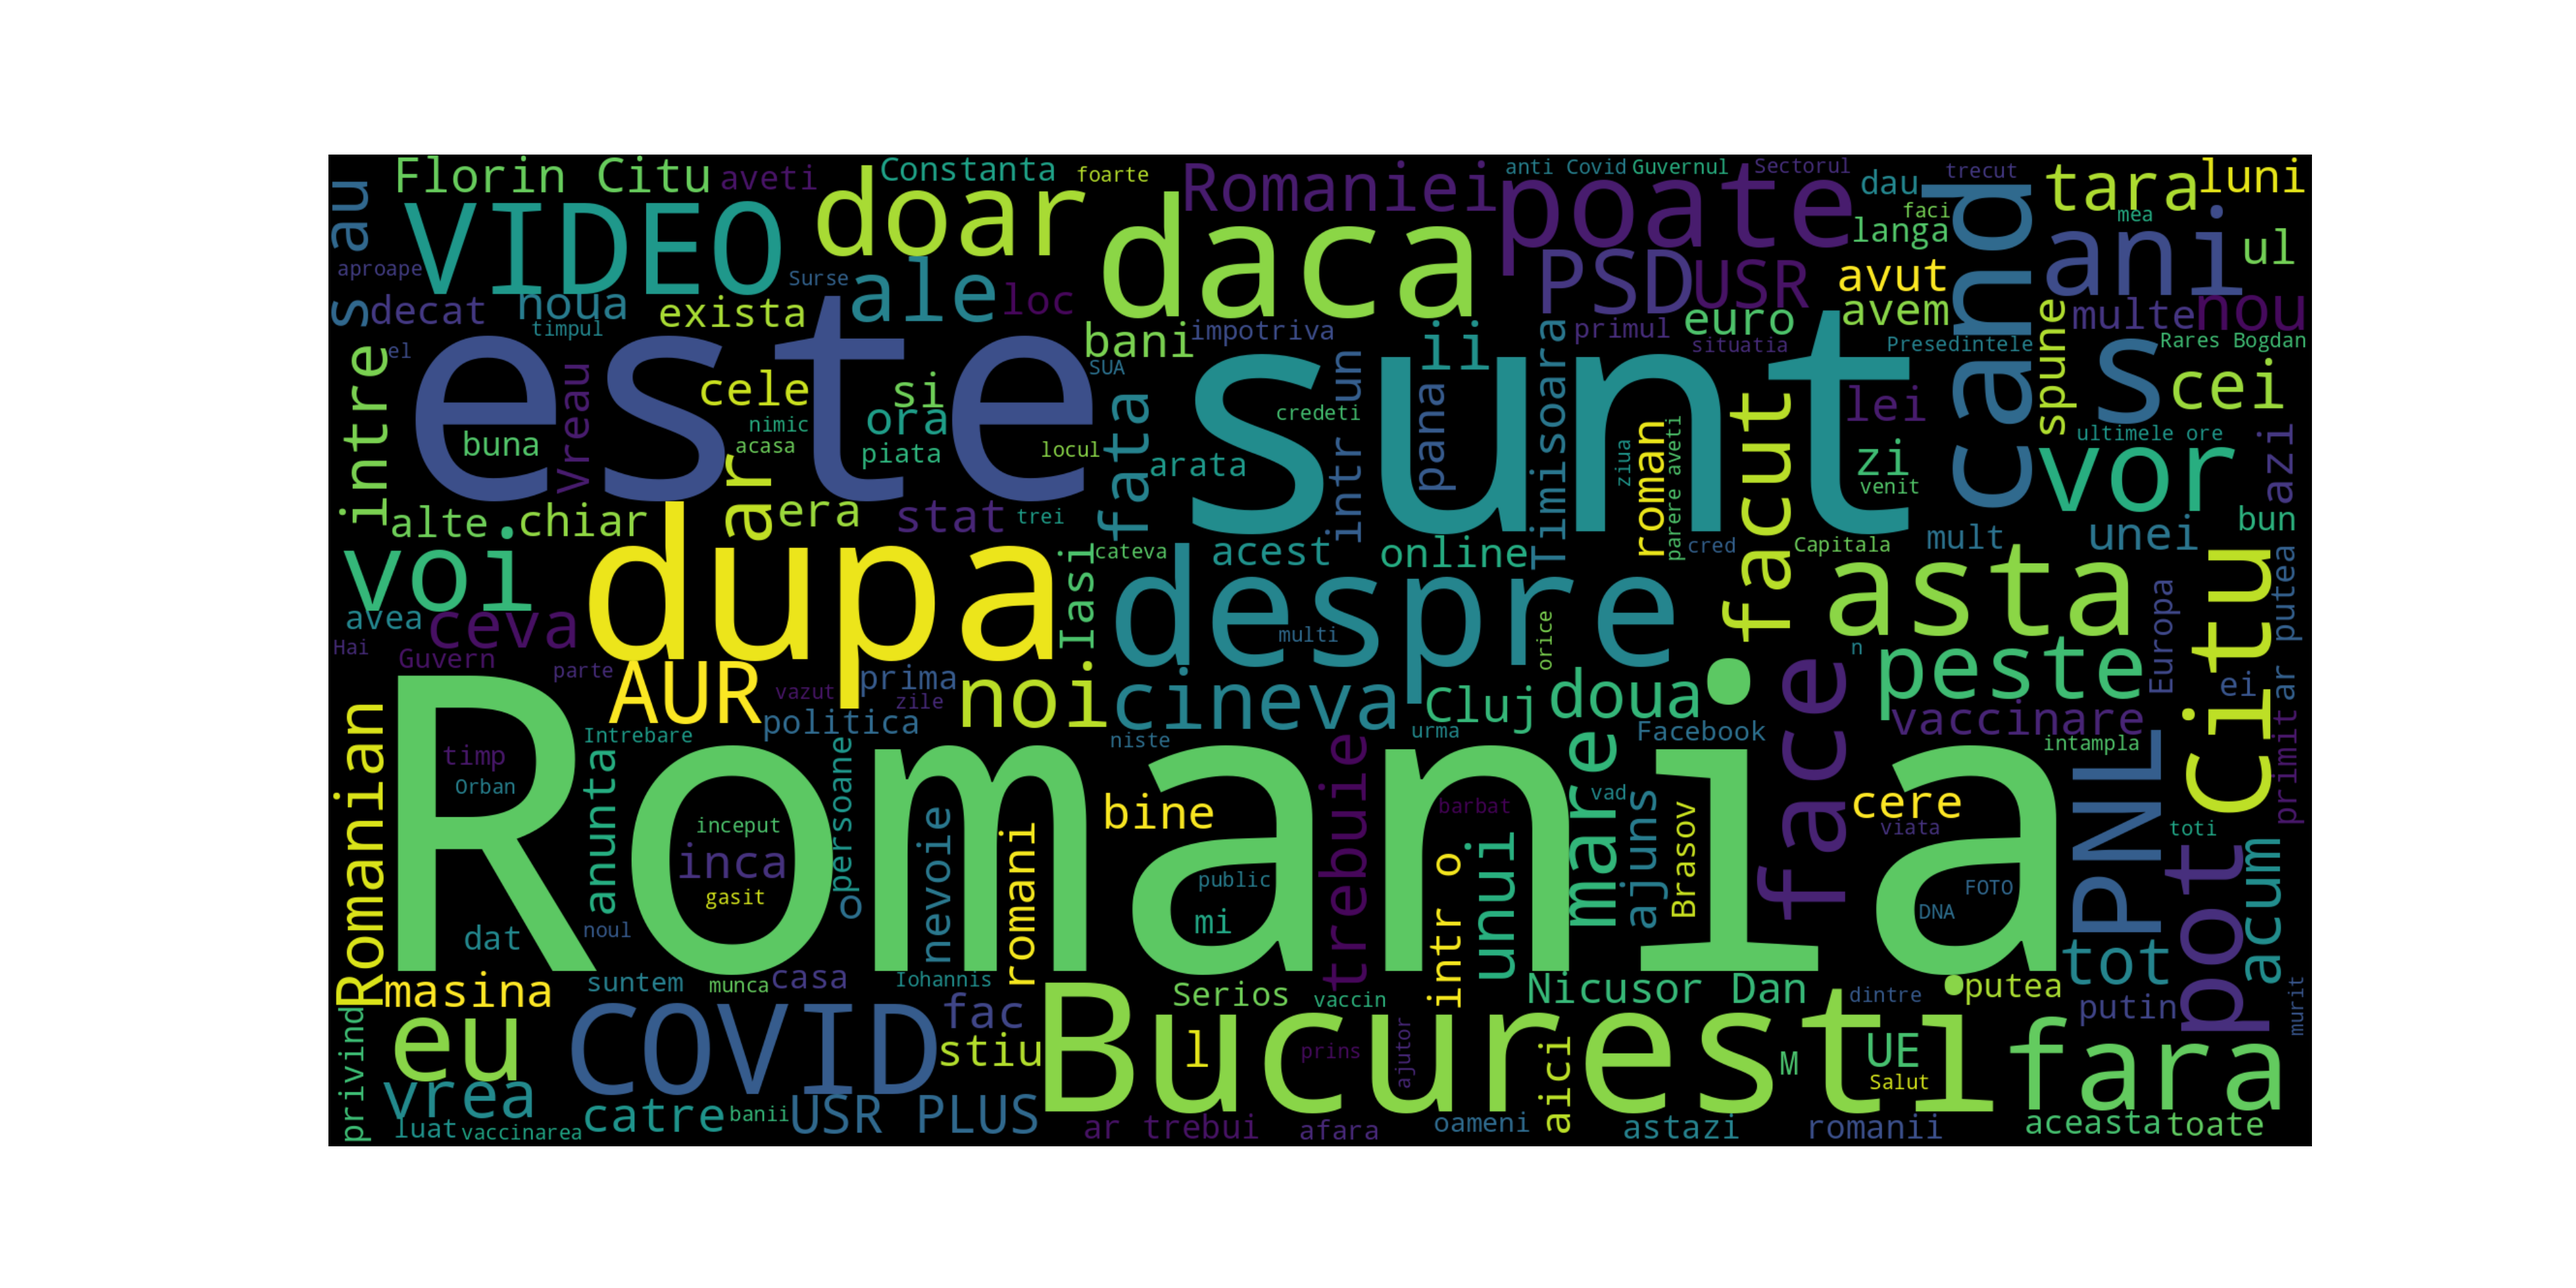
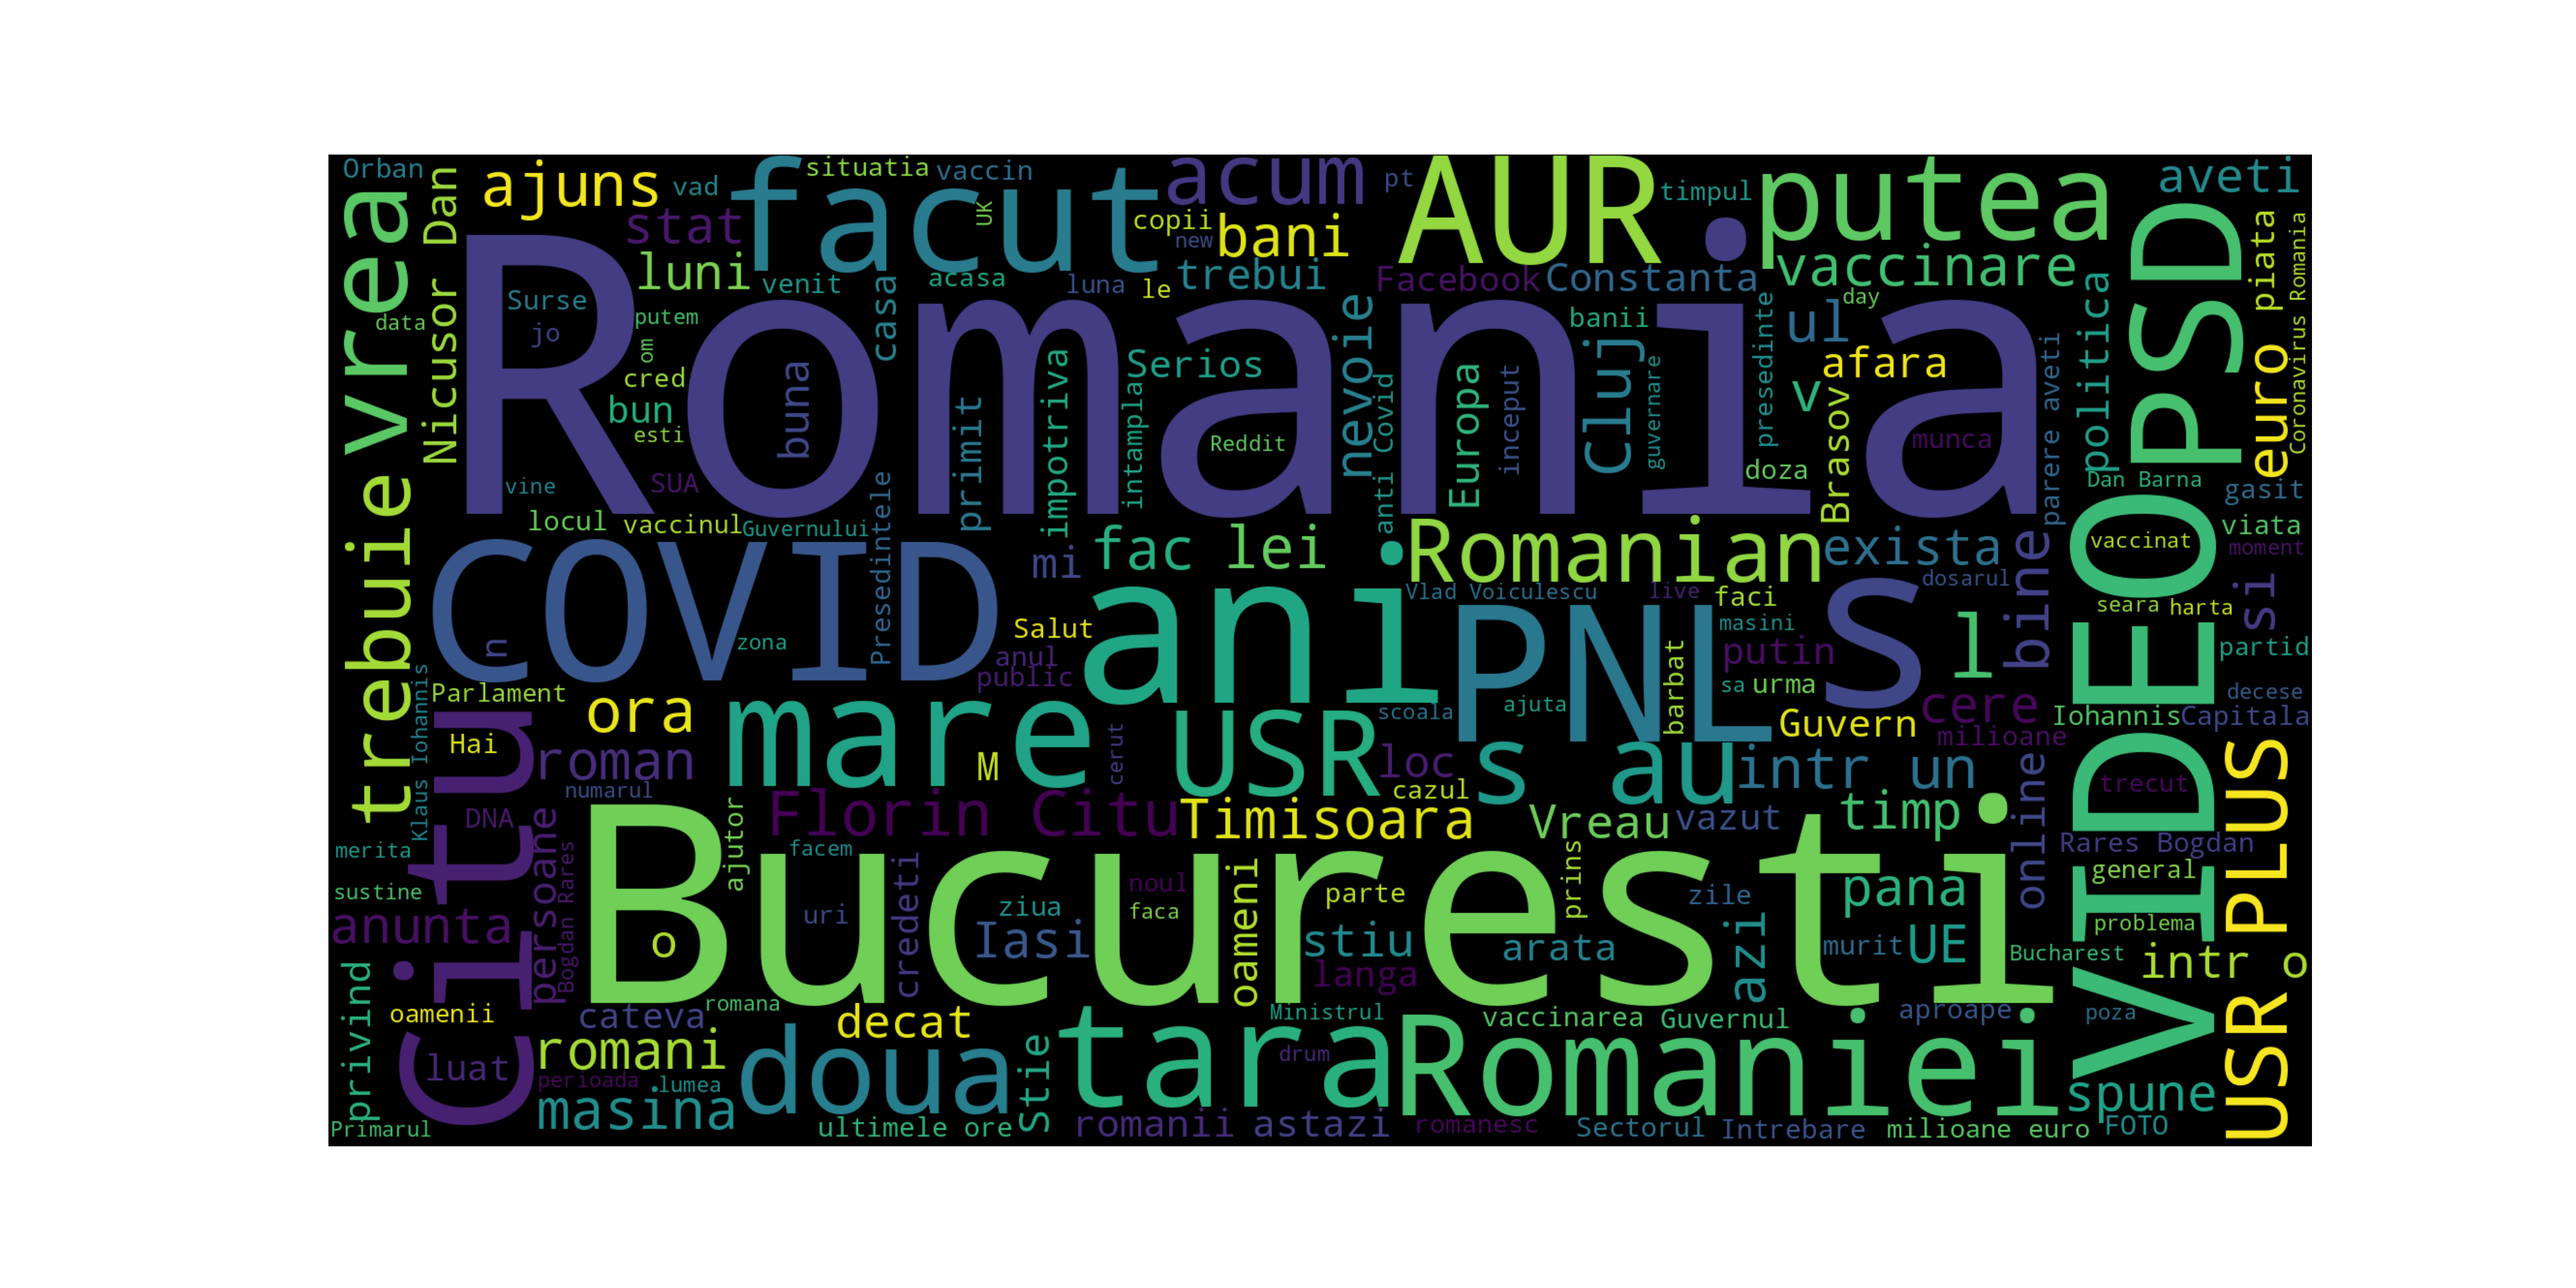
using nltk for stopwords now

diff --git a/AnalyzR/AnalyzR.py b/AnalyzR/AnalyzR.py
@@ -1,12 +1,15 @@
-import requests, re, os
+import requests, re, os, nltk
+from nltk.corpus import stopwords
 from wordcloud import WordCloud
 import matplotlib.pyplot as plt
 from datetime import datetime, timedelta
 from unidecode import unidecode
 
+
 subreddit = 'Romania'
 output_dir = os.getcwd()
 output_filename = 'RomaniaWordCloud'
+nltk.download('stopwords')
 
 
 titles = []
@@ -49,112 +52,8 @@ for title in titles:
     substring = re.sub(r'[^\w\s\-]', '', substring)
     words += substring + ' '
 
-# conjunctii, anomalii etc
-exclusions = [
-    'fost',
-    'cine',
-    'au',
-    'ca',
-    'că',
-    'căci',
-    'când',
-    'cât',
-    'cum',
-    'dacă',
-    'dar',
-    'darămite',
-    'de',
-    'decât',
-    'deci',
-    'deoarece',
-    'deși',
-    'fără',
-    'fie',
-    'fiindcă',
-    'iar',
-    'isi',
-    'încât',
-    'însă',
-    'întrucât',
-    'necum',
-    'nici',
-    'numai',
-    'or',
-    'ori',
-    'până',
-    'uri',
-    'F',
-    'lui',
-    'precum',
-    'sau',
-    'să',
-    'și',
-    'totuși',
-    'unde',
-    'pe',
-    'la',
-    'spre',
-    'cu',
-    'de',
-    'fără',
-    'sub',
-    'în',
-    'prin',
-    'pentru',
-    'către',
-    'contra',
-    'lângă',
-    'ce',
-    'si',
-    'sa',
-    'ma',
-    'fi',
-    'in',
-    'din',
-    'care',
-    'se',
-    'de',
-    'va',
-    'fi',
-    'ati',
-    'imi',
-    'asa',
-    'mi',
-    'un',
-    'nu',
-    'da',
-    'mai',
-    'ati',
-    'ce',
-    'cat',
-    'o',
-    'e',
-    'la',
-    'ne',
-    'pe',
-    'au',
-    'mi',
-    'al',
-    'cel',
-    'vs',
-    'își',
-    'pt',
-    'new',
-    'home',
-    'ati',
-    'asa',
-    'ai',
-    'te',
-    'le',
-    'o',
-    'mi',
-    'ul',
-    'n',
-    'm',
-    'l',
-    'il',
-    'ii'
-]
+
+exclusions = set(stopwords.words('romanian'))
 
 word_list = words.split(' ')
 curated_words = ''
